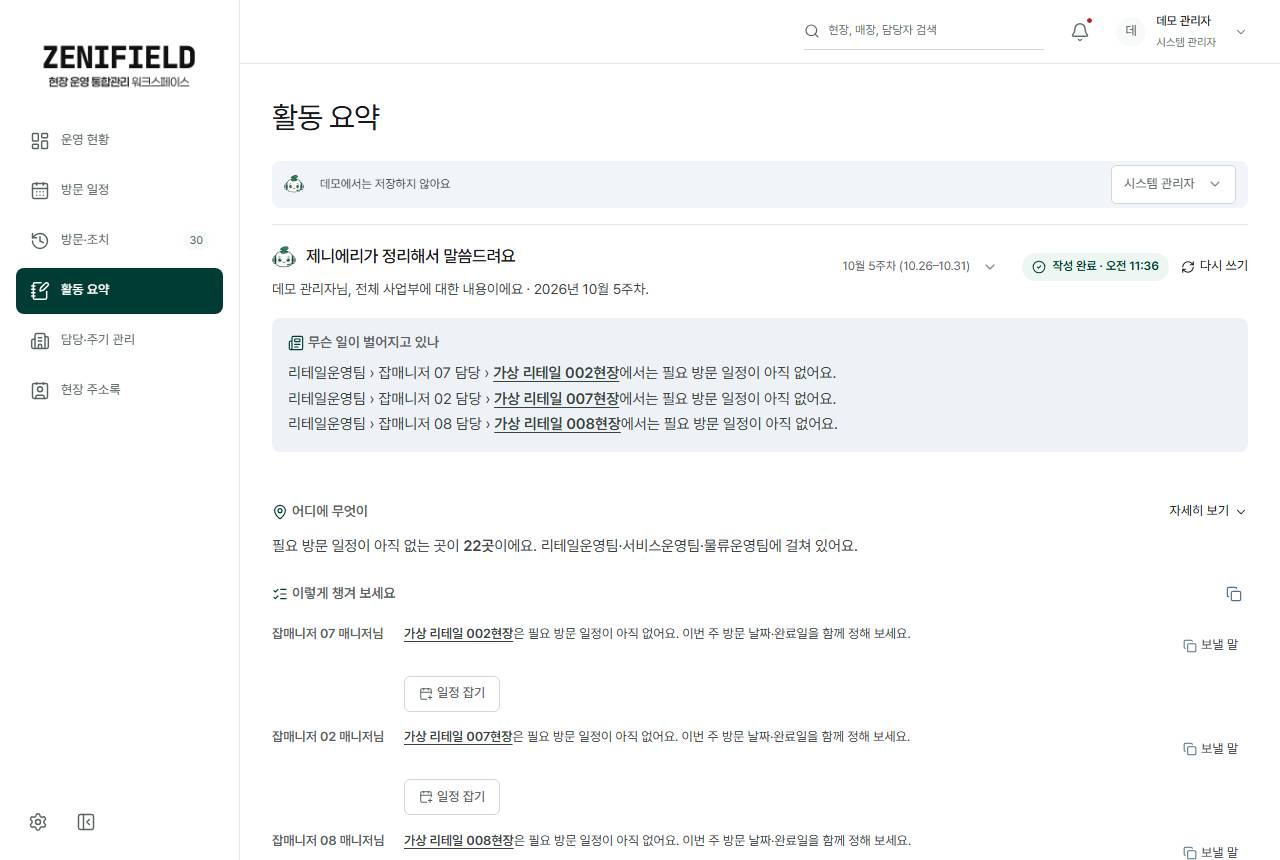
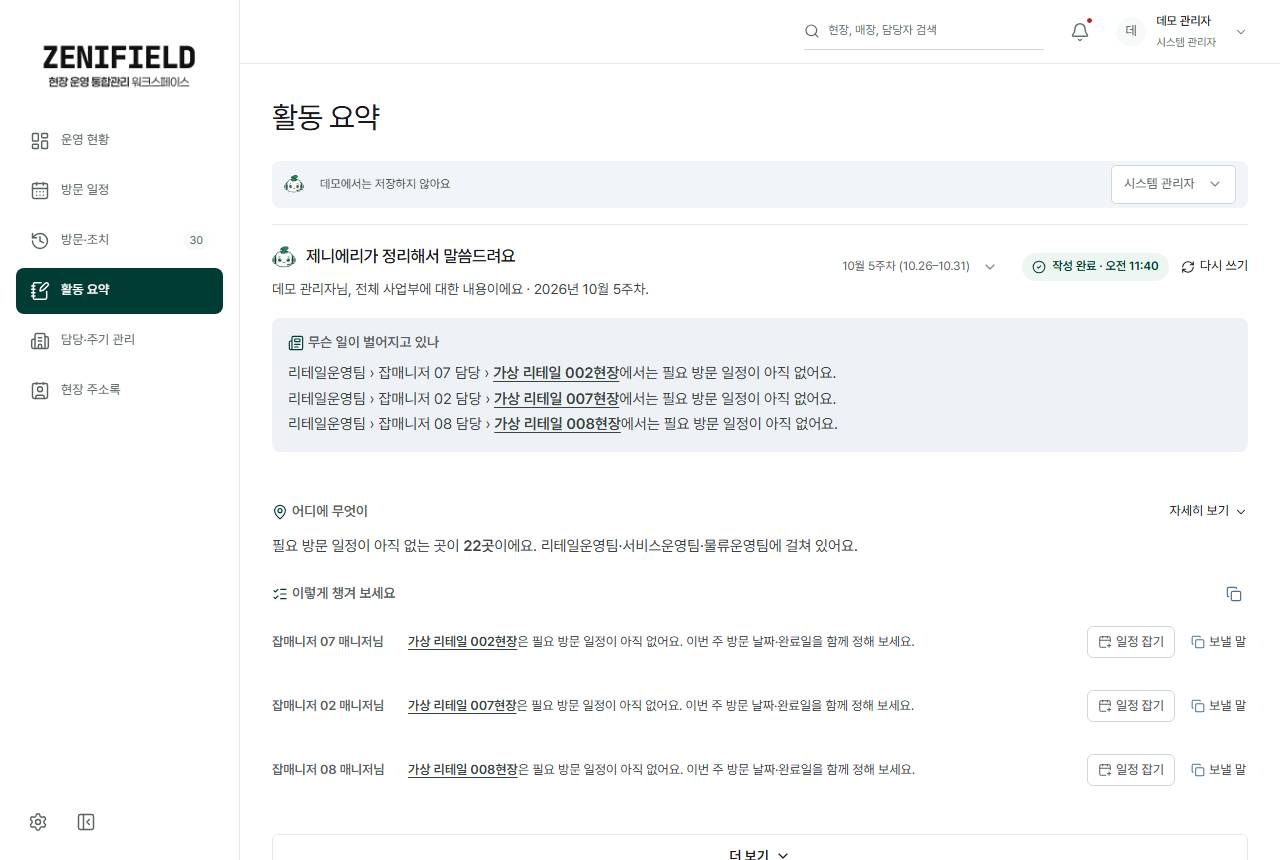
일정 등록 추천 장소 정렬 칩(급한 순·오래 못 간 순·지역별·밀린 조치), 브리핑 가이드 줄 버튼을 줄 끝으로, 매뉴얼 화면 다시 찍음

diff --git a/app/platform/my-schedule.tsx b/app/platform/my-schedule.tsx
@@ -1,7 +1,7 @@
 'use client';
 // 일정 잡기 전 빈 날 확인: 오늘부터 7일을 칩 한 줄로(날짜 + 내 방문 n건 / 비어 있음). 누르면 그 날짜를 AI 입력에 먼저 넣는다.
 // 필요 회차 기간 안의 날은 딥그린 테두리. 방문 목록 전체는 방문 일정 화면의 달력에서 본다(여기서 반복하지 않는다).
-import {useMemo} from 'react';
+import {useMemo,useState} from 'react';
 import type {Context} from './context';
 import {dayShift,mmdd,between,daysBetween,kstToday,kstTime} from '../lib/date';
 import type {Target} from './model';
@@ -43,11 +43,16 @@ export function ScheduleHints({c,target,visitor,picked,onPick}:{c:Context;target
 // 대상 = 방문자 담당 운영 중 현장·매장 중 attentionOf(판정 바로 확인·조치 필요 → 기한 지남·일정 없음·기한 넘긴 조치) + 60일+ 미방문, 다가온 일정 있는 곳 제외.
 // 줄마다: 왜(사실) · 방문 주기와 마지막 방문 경과 · 확인할 것(저장 판정 판단 + 안 끝난 조치 내용) · 같은 날 함께 가기 좋은 곳(같은 현장·같은 지역, 동선).
 // 누르면 대상을 고르고 확인할 것을 사전 확인사항에 채운다(사람이 쓴 값이 있으면 덮지 않음).
+// 정렬 선택(사실 기준, 점수 없음): 급한 순 = 저장 판정 → 이른 기한(attentionOf) · 오래 못 간 순 = 마지막 방문 오래된 순(기록 없음 먼저) · 지역별 = 같은 지역끼리 묶어 동선 · 밀린 조치 = 기한 넘긴 조치 많은 순
+const SUGGEST_ORDER=[['urgent','급한 순'],['stale','오래 못 간 순'],['region','지역별'],['late','밀린 조치']] as const;
+type SuggestOrder=typeof SUGGEST_ORDER[number][0];
 export function VisitSuggest({c,visitor,onPick}:{c:Context;visitor:string;onPick:(t:Target,precheck:string)=>void}){
+ const [order,setOrder]=useState<SuggestOrder>('urgent');
  const rows=useMemo(()=>{const own=c.targets.filter(t=>t.status==='운영 중'&&t.managerIds.includes(visitor)),pool=own.length?own:c.scope;
   const facts=targetFacts(pool,c.visits,c.actions,c.allMetrics.slots,c.now),att=attentionOf(facts.values()),seen=new Set(att.map(f=>f.target.id));
   const stale=staleStores(pool,c.visits,c.now).filter(x=>!seen.has(x.target.id)&&!facts.get(x.target.id)?.upcoming).map(x=>facts.get(x.target.id)!).filter(Boolean);
-  const list=[...att,...stale];
+  const base=[...att,...stale],last=(f:typeof base[number])=>f.lastVisit||'';
+  const list=order==='urgent'?base:[...base].sort(order==='stale'?(a,b)=>last(a).localeCompare(last(b)):order==='region'?(a,b)=>(a.target.region||'').localeCompare(b.target.region||'')||a.target.siteName.localeCompare(b.target.siteName):(a,b)=>b.lateActions-a.lateActions);
   const open=new Map<string,typeof c.actions>();for(const x of c.actions){if(x.state==='완료')continue;const id=x.storeId||x.siteId,arr=open.get(id)||[];arr.push(x);open.set(id,arr)}
   return list.slice(0,5).map(f=>{const t=f.target,j=f.judgment&&LEVEL_ORDER[f.judgment.level]?f.judgment:null,days=daysBetween(f.lastVisit,c.now);
    const why=[j&&levelLabel(j.level),f.delayed.length&&`필요 방문 기한 지남 ${f.delayed.length}회`,f.unplanned.length&&`필요 방문 일정 없음 ${f.unplanned.length}회`,f.lateActions&&`기한 넘긴 조치 ${f.lateActions}건`].filter(Boolean) as string[];
@@ -55,9 +60,9 @@ export function VisitSuggest({c,visitor,onPick}:{c:Context;visitor:string;onPick
    const acts=(open.get(t.id)||[]).sort((x,y)=>x.dueDate.localeCompare(y.dueDate)).slice(0,2);
    const check=[j?.assessment||'',...acts.map(x=>`${x.type}: ${x.content.length>40?x.content.slice(0,40)+'…':x.content}(기한 ${mmdd(x.dueDate)}${x.dueDate<c.now?' 지남':''})`)].filter(Boolean);
    const near=list.filter(o=>o.target.id!==t.id&&(o.target.siteId===t.siteId||(!!t.region&&o.target.region===t.region))).slice(0,2).map(o=>o.target.name);
-   return {t,why,interval,check,near}})},[c.targets,c.scope,c.visits,c.actions,c.allMetrics.slots,c.now,visitor]);
+   return {t,why,interval,check,near}})},[c.targets,c.scope,c.visits,c.actions,c.allMetrics.slots,c.now,visitor,order]);
  if(!rows.length)return <p className="form-hint wide">지금 먼저 챙길 담당 현장·매장은 없어요. 빈 날을 골라 일정을 잡아 보세요.</p>;
- return <section className="visit-suggest wide" aria-label="제니에리 방문 추천"><h3><AiMark size={20}/>제니에리가 먼저 가 보면 좋은 곳을 골랐어요</h3><ol>{rows.map(r=><li key={r.t.id}><button type="button" onClick={()=>onPick(r.t,r.check.map(x=>'- '+x).join('\n'))}>
+ return <section className="visit-suggest wide" aria-label="제니에리 방문 추천"><h3><AiMark size={20}/>제니에리가 먼저 가 보면 좋은 곳을 골랐어요</h3><div className="vs-order" role="radiogroup" aria-label="추천 장소 정렬">{SUGGEST_ORDER.map(([k,l])=><button key={k} type="button" role="radio" aria-checked={order===k} className={order===k?'on':''} onClick={()=>setOrder(k)}>{l}</button>)}</div>{order==='region'&&<p className="form-hint">같은 지역끼리 묶었어요. 한 번에 이어서 가 보세요.</p>}<ol>{rows.map(r=><li key={r.t.id}><button type="button" onClick={()=>onPick(r.t,r.check.map(x=>'- '+x).join('\n'))}>
   <b className={'zf-ent zf-ent-'+r.t.type}>{r.t.type==='store'?r.t.siteName+' › ':''}{r.t.name}</b>
   {r.why.length>0&&<span className="vs-why">{r.why.join(' · ')}</span>}
   <small>{r.interval}</small>

diff --git a/app/platform/ai-brief.tsx b/app/platform/ai-brief.tsx
@@ -199,7 +199,7 @@ function BriefPresentation({out,digest,stale,busy=false,jump,act,targetNames,who
  return <div className={'ai-brief-out'+(stale?' stale':'')}>
   {story}
   <Where digest={digest} jump={jump}/>
-  {merged.some(a=>a.say.length)&&<section className="ai-brief-focus"><h3><ListChecks size={16} aria-hidden/>이렇게 챙겨 보세요<CopyButton label='이렇게 챙겨 보세요 복사' text={merged.filter(a=>a.say.length).map(a=>`- ${who(a.name).label}: ${txt(a.say)}`).join('\n')}/></h3><ol>{merged.filter(a=>a.say.length).map((a,i)=><li key={i}><button type="button" className="link" onClick={()=>jump(a.name)}><WhoName w={who(a.name)}/></button><span>{a.say.length===0&&a.reason.length>0&&<RichText r={a.reason}/>}{a.say.length>0&&<><em className="ai-brief-do">{a.to&&a.to!==a.name&&<b>{who(a.to).label} · </b>}<RichText r={a.say} onName={jump}/></em>{doFor(a.name,a.say)}<CopyButton label={who(a.to||a.name).label+'에게 보낼 말 복사'} text={`${who(a.to||a.name).label}, ${txt(a.say)}`} visible="보낼 말"/></>}</span></li>)}{!r.focus.length&&<li><span>{digest.role==='manager'?'바로 확인·조치 필요로 남은 곳이 없어요(저장된 판정 기준).':'일정 잡을 회차나 기한 넘긴 조치가 있는 곳이 없어요.'}</span></li>}</ol></section>}
+  {merged.some(a=>a.say.length)&&<section className="ai-brief-focus"><h3><ListChecks size={16} aria-hidden/>이렇게 챙겨 보세요<CopyButton label='이렇게 챙겨 보세요 복사' text={merged.filter(a=>a.say.length).map(a=>`- ${who(a.name).label}: ${txt(a.say)}`).join('\n')}/></h3><ol>{merged.filter(a=>a.say.length).map((a,i)=><li key={i}><button type="button" className="link" onClick={()=>jump(a.name)}><WhoName w={who(a.name)}/></button><span>{a.say.length===0&&a.reason.length>0&&<RichText r={a.reason}/>}{a.say.length>0&&<><em className="ai-brief-do">{a.to&&a.to!==a.name&&<b>{who(a.to).label} · </b>}<RichText r={a.say} onName={jump}/></em></>}</span>{a.say.length>0&&<div className="brief-row-actions">{doFor(a.name,a.say)}<CopyButton label={who(a.to||a.name).label+'에게 보낼 말 복사'} text={`${who(a.to||a.name).label}, ${txt(a.say)}`} visible="보낼 말"/></div>}</li>)}{!r.focus.length&&<li><span>{digest.role==='manager'?'바로 확인·조치 필요로 남은 곳이 없어요(저장된 판정 기준).':'일정 잡을 회차나 기한 넘긴 조치가 있는 곳이 없어요.'}</span></li>}</ol></section>}
   {(out.model.includes('AI 연결 안 됨')||r.confidence==='low')&&<p className="ai-brief-source">{[out.model.includes('AI 연결 안 됨')&&out.model,r.confidence==='low'&&'확신 낮음'].filter(Boolean).join(' · ')}</p>}
   <div id={id+'-more'} className="ai-brief-more" hidden={!open}>
    {(r.steps?.length||0)>0&&<section className="ai-brief-guide"><h3><Route size={16} aria-hidden/>이행 가이드<CopyButton label='이행 가이드 복사' text={r.steps!.map((x,i)=>`${i+1}. ${txt(x)}`).join('\n')}/></h3><ol className="ai-brief-steps">{r.steps!.map((x,i)=><li key={i}><b>{i+1}</b><span><RichText r={x} onName={jump}/></span></li>)}</ol></section>}

diff --git a/app/platform/styles.css b/app/platform/styles.css
@@ -970,3 +970,16 @@
 .app-shell .record-table .row-actions .textbtn,.app-shell .record-table td>.action-edit-link{min-height:44px;white-space:nowrap}
 /* 모바일: 등록은 하단 가운데 + 버튼 하나(머리 버튼과 같은 동작) → 머리 등록 버튼 숨김 */
 @media(max-width:760px){.app-shell .page-actions>.btn.primary{display:none}}
+/* 추천 장소 정렬: 칩 한 줄(단일 선택, 44px 터치), 고른 칩은 딥그린 */
+.vs-order{display:flex;flex-wrap:wrap;gap:6px;margin:0 0 8px}
+.vs-order button{min-height:36px;padding:0 12px;border:1px solid var(--zf-control-border);border-radius:999px;background:var(--zf-surface);font-size:13px;color:var(--zf-text-secondary)}
+.vs-order button.on{background:var(--zf-brand-green);border-color:var(--zf-brand-green);color:var(--zf-on-action);font-weight:600}
+@media(max-width:760px){.vs-order button{min-height:44px}}
+.visit-suggest .vs-order button{width:auto;display:inline-flex;align-items:center;justify-content:center;grid-template-columns:none;padding:0 12px;text-align:center}
+/* 이렇게 챙겨 보세요 한 줄: [받는 사람] [할 일 문장] [바로 하기·보낼 말] — 버튼은 줄 끝 오른쪽, 문장과 같은 높이 */
+.app-shell .ai-brief .ai-brief-focus ol>li{display:grid;grid-template-columns:minmax(120px,auto) minmax(0,1fr) auto;column-gap:16px;align-items:center;padding:8px 0}
+.app-shell .ai-brief .ai-brief-focus ol>li>span{display:block}
+.app-shell .ai-brief .brief-row-actions{display:flex;align-items:center;gap:6px;justify-self:end}
+.app-shell .ai-brief .brief-row-actions .brief-do-links{display:flex;gap:6px;margin:0}
+.app-shell .ai-brief .brief-row-actions .btn,.app-shell .ai-brief .brief-row-actions .copy-btn{min-height:32px;padding:0 10px;font-size:13px;white-space:nowrap}
+@media(max-width:1023px){.app-shell .ai-brief .ai-brief-focus ol>li{grid-template-columns:minmax(0,1fr)}.app-shell .ai-brief .brief-row-actions{justify-self:start}}

diff --git a/PROJECT_RULE.md b/PROJECT_RULE.md
@@ -45,7 +45,7 @@
 | DC-DESIGN-ZENIERI | AI 표시 = `AiMark`(`zenieri-chatbot.png`, 24/20/44px) 하나. 문장 = 제니에리 해요체 완결 문장·직함 호칭, 메모체·콜론 나열 금지(AI `briefPrompt`·규칙 `ruleBrief` 모두). 권한 안내는 거부 때만. 지침 9-B |
 | DC-DESIGN-BRIEF | 브리핑 = 제목 `제니에리가 정리해서 말씀드려요`·누구 이야기 → 무슨 일(한 문단) → 어디에 무엇이(요약+자세히 보기) → 이렇게 챙겨 보세요(보는 사람 관리 가이드·넘기는 지시 금지·복사) → 더 보기(이행 가이드+복사·전할 말·다음 주·근거·AI 고지). 칸 제목 14px·600+16px 아이콘, 상태 칩 하나+작성 중 가림막. 저장본 키 사용자·직급별·로그아웃 삭제. 지침 9-B |
 | DC-DESIGN-DASHBOARD | 모든 직급 같은 구성: H1 아래 기준 시각 → `ZeniCheer`(보는 범위 사실·자기 과거 비교·직함 호칭) → 브리핑 → 범위·탭 → 지표 4개 → 차트 한 쌍(조직 공백표 + 주별 이행률 꺾은선·축 하나) → 오늘·이번 주·안 끝난 조치 5줄+전체 보기. 누적 막대·이중 축·도넛·게이지·중복 차트·조직 순위 금지. 지침 6.1 |
-| DC-DESIGN-SCHEDULE | 방문 일정 기본: 잡매니저 월간 / 파트장 이상 단위×요일 주간. 등록 = `VisitSuggest`(먼저 가 보면 좋은 곳 5곳: 왜·주기·마지막 방문·확인할 것·같은 날 함께, `attentionOf`→`staleStores`, 사전 확인사항 빈칸 채움) → 7일 빈 날 → `schedule.ts` 후보 5개. 사람이 고른 값 우선 |
+| DC-DESIGN-SCHEDULE | 추천 정렬 칩 급한 순(attentionOf)·오래 못 간 순·지역별·밀린 조치(사실 정렬, 점수 금지). 브리핑 가이드 줄 버튼은 줄 끝(1023px 이하 문장 아래). 방문 일정 기본: 잡매니저 월간 / 파트장 이상 단위×요일 주간. 등록 = `VisitSuggest`(먼저 가 보면 좋은 곳 5곳: 왜·주기·마지막 방문·확인할 것·같은 날 함께, `attentionOf`→`staleStores`, 사전 확인사항 빈칸 채움) → 7일 빈 날 → `schedule.ts` 후보 5개. 사람이 고른 값 우선 |
 | DC-DESIGN-RECORDS | 방문 기록 = 표 위 탭 한 줄 단일 선택(전체·먼저 볼 보고·안 끝난 이슈·고객 요청·결과 안 쓴 방문), 기준 `judgment.ts` issueGuide(저장 판정만), 0건 숨김, 줄마다 걸린 이슈. 이슈 종류 묶음·판정 수준 묶음·다단계 필터 금지 |
 | DC-DESIGN-FORM | 입력 폼 = 한 열 기본(짧은 짝 칸만 2열), 라벨 위, 선택 칸 `(선택)` 표시. 금지: 안내 박스·준비 중 기능 안내·구역 번호·같은 안내 중복·선택 칸 접기. 새로 만들 때 진행 상태 칸 숨김, 수시 방문은 예정 시간·사전 확인사항 숨김. 혼자 남는 칸은 한 줄 전체. 갱신 2026-10-30 |
 | DC-DESIGN-PAGE-GUIDE | 방문 일정·방문 기록·후속 조치 맨 위 제니에리 정리(같은 틀: 무슨 일 문단 → 할 일 한 문장 + 3건). 줄 = [대상·내용(열기)] [바로 하기 작은 버튼: 일정 잡기·결과 쓰기] [받는 사람에게 보낼 말 복사 44px] 한 줄. 브리핑 `이렇게 챙겨 보세요`도 같은 바로 하기·복사, 문장 속 현장·매장 이름 링크. `page-guide.tsx`·`action-brief.tsx`. 갱신 2026-10-30 |

diff --git a/AGENTS.md b/AGENTS.md
@@ -77,7 +77,7 @@
 **방문 일정**
 - 맨 위 제니에리 정리(`page-guide.tsx`): 이번 주 잡힌 일정·일정 잡을 회차·지난주 비교 → 먼저 일정 잡을 곳 3곳(일정 잡기·보낼 말 복사).
 - 기본 보기: 잡매니저 월간 / 파트장 이상 하위 단위×요일 주간 달력.
-- 등록(AI 기본·`직접 입력` 전환): 대상 고르기 전 `제니에리가 먼저 가 보면 좋은 곳을 골랐어요` 최대 5곳(왜·주기·마지막 방문·확인할 것·같은 날 함께) → 앞 7일 빈 날 칩 → 대상 정하면 사실 한 줄+후보 날짜 5개(`schedule.ts`). 사람이 고른 값 우선, AI 초안은 빈칸만.
+- 등록(AI 기본·`직접 입력` 전환): 추천 위 정렬 칩(급한 순·오래 못 간 순·지역별·밀린 조치). 대상 고르기 전 `제니에리가 먼저 가 보면 좋은 곳을 골랐어요` 최대 5곳(왜·주기·마지막 방문·확인할 것·같은 날 함께) → 앞 7일 빈 날 칩 → 대상 정하면 사실 한 줄+후보 날짜 5개(`schedule.ts`). 사람이 고른 값 우선, AI 초안은 빈칸만.
 
 **방문 기록**
 - 맨 위 제니에리 정리: 이 기간 마친 방문·결과 없는 방문·지난주 비교 → 오래된 미작성 3곳(결과 쓰기·보낼 말 복사).
